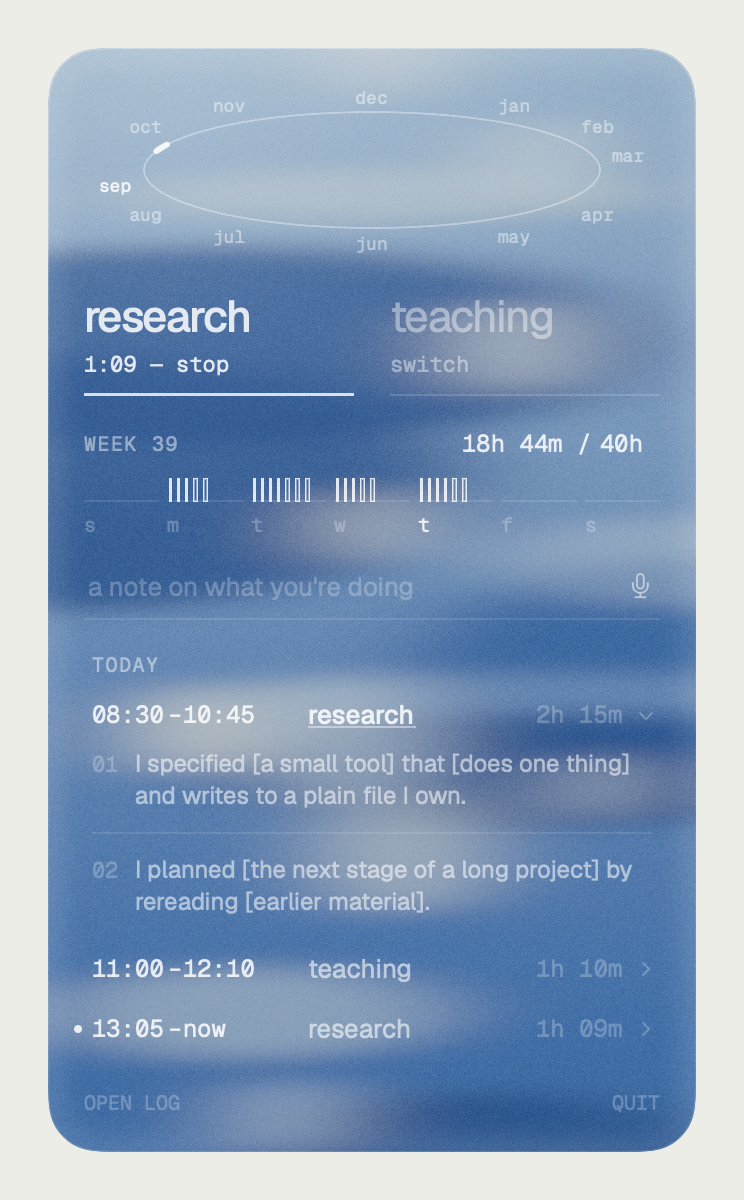
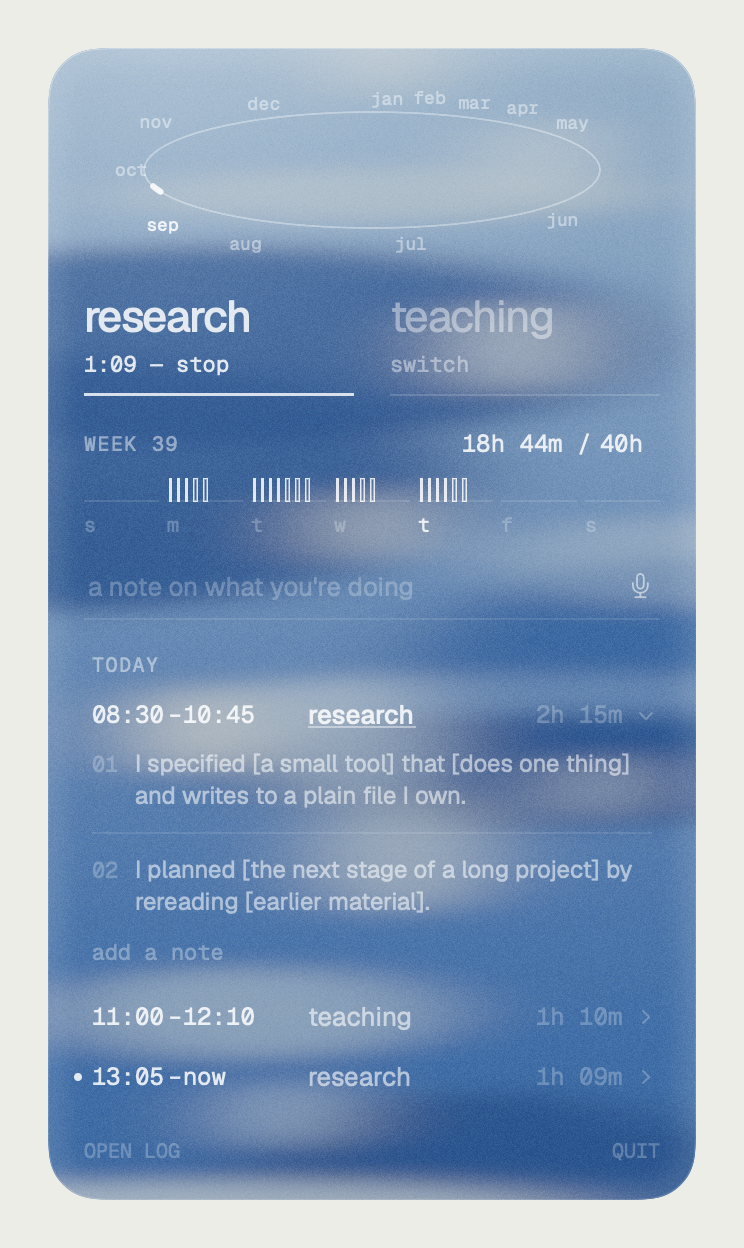
README: correct lines that had drifted from how Knolling works; current screenshot

diff --git a/README.md b/README.md
@@ -84,21 +84,22 @@ oval, as small ticks with labels."* The pointer in `YearOval` marks where it goe
 
 - **Two kinds, one tap.** Research or teaching. Tap the live one to stop; tap the other to switch.
 - **Notes in your own words.** Type or dictate (on-device when your Mac supports it) while a
-  session runs, and log a note when it ends. Words are saved as you said them.
+  session runs; notes always go to the session that's running, and when you clock out you can log
+  one more for the session that just ended. Words are saved as you said them.
 - **An hourly check-in that never pauses the clock.** Ignore it and the clock keeps running; it's
   only there for when you forget to clock out.
 - **Fix anything by hand.** Click any time in the menu to change it (`8`, `830`, `2pm` all work),
   or edit the log file directly — Knolling re-reads it and never overwrites your edits.
 - **Sessions stay collapsed** until you click one open to see what was done in it.
 - **Any day this week.** Click a day in the week strip to see that day's sessions; click it again to come back to today.
-- **Add a note after the fact.** Open any finished session and click *add a note*; it's stamped with when you wrote it. The caret by
-  *Today* opens the whole week.
+- **Add a note after the fact.** Open any finished session and click *add a note*; it's stamped with
+  when you wrote it. Your notes and Claude's records are numbered together, in order.
 - **The menu bar stays quiet.** Off the clock it shows a small grid; live, `R 1:12` or `T 0:40`. The
   hourly check-in offers **Stop** and **Add note**; if you haven't seen it, a trailing `·` appears.
 - **Nothing typed is lost.** Words typed but not entered when you tap a button are kept as a note.
   Click a note's words to rewrite them; clear them to remove the note.
 - **Mis-taps disappear.** A start-then-stop under a minute with no notes is removed.
-- **The week runs Sunday to Saturday.** A quiet bar fills toward a weekly goal (40 hours by default;
+- **The week runs Sunday to Saturday**, with the hours so far against a weekly goal (40 by default;
   click the number to change it).
 
 ## make it yours
@@ -145,7 +146,7 @@ If you work with [Claude Code](https://claude.com/claude-code), Knolling can act
 secretary. At clock-out it reads the Claude Code sessions **you actively used while clocked in**
 (only sessions where you sent a message inside that window, and only that slice of them) and adds
 a short record under the session: a one-line glance shown in the menu, a few lines of detail in the
-log, and the exact files Claude wrote or edited.
+log, and the files Claude worked on.
 
 The record is written to a style guide you own — [`RECORD-STYLE.md`](RECORD-STYLE.md) — built on a
 simple grammar: every entry is **subject + predicate + context**, one act per sentence, and the
@@ -207,8 +208,9 @@ the menu to an image — that's how the screenshot above was made.
 
 ## privacy
 
-Everything stays on your Mac: the log is a local file, dictation is on-device when possible, and
-nothing is sent anywhere unless you turn on the Claude record, which uses your own Claude account.
+The log is a local file on your Mac. Dictation runs on-device when your Mac supports it; otherwise it
+uses Apple's speech recognition. Nothing else is sent anywhere unless you turn on the Claude record,
+which uses your own Claude account. Token counts are read from files already on your Mac.
 
 ## license
 
